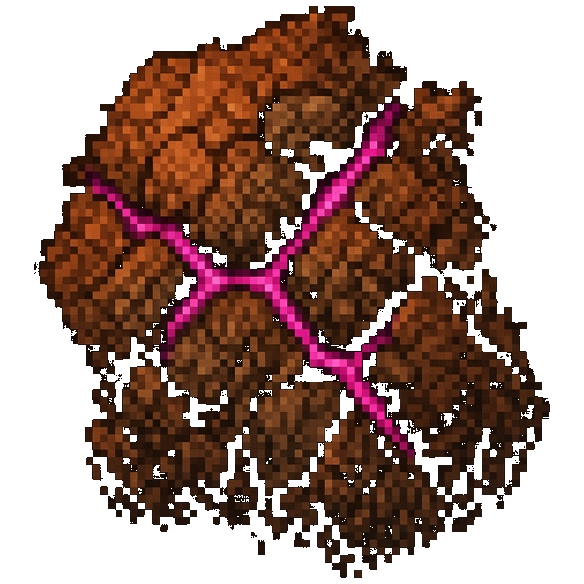
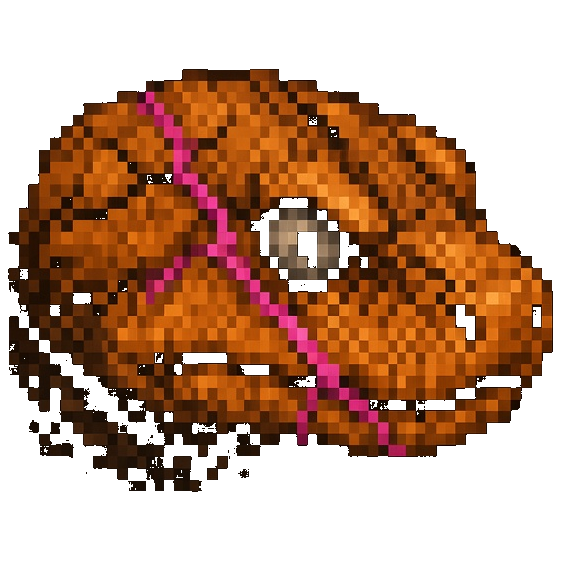
feat(arcade): Noodle directional sprites

diff --git a/components/arcade/NoodleGame.tsx b/components/arcade/NoodleGame.tsx
@@ -9,7 +9,12 @@ import {
   ROWS,
   SKIN_DIR,
   applyNoodleView,
+  bodySprite,
+  headSprite,
+  spriteFallback,
   stampSize,
+  tailPoint,
+  tailSprite,
   dirFromKey,
   dirFromSwipe,
   noodleView,
@@ -17,12 +22,29 @@ import {
   spawnNoodle,
   stepNoodle,
   segmentDir,
-  tailDir,
   type Noodle,
   type NoodleView,
 } from "@/lib/noodle";
 
-type SkinKey = "bg" | "head" | "body" | "tail" | "sat" | "dead";
+const ATLAS = [
+  "bg",
+  "sat",
+  "dead",
+  "head",
+  "body",
+  "tail",
+  "head-right",
+  "head-left",
+  "head-up",
+  "head-down",
+  "body-h",
+  "body-v",
+  "tail-left",
+  "tail-right",
+  "tail-up",
+  "tail-down",
+] as const;
+
 type Cropped = {
   img: HTMLImageElement;
   x: number;
@@ -30,7 +52,7 @@ type Cropped = {
   w: number;
   h: number;
 };
-type Skin = Record<SkinKey, Cropped | null>;
+type Skin = Record<string, Cropped | null>;
 
 export type NoodlePhase = "ghost" | "ready" | "play" | "dead";
 
@@ -47,14 +69,7 @@ export function NoodleGame({
 }) {
   const canvasRef = useRef<HTMLCanvasElement | null>(null);
   const gameRef = useRef<Noodle>(spawnNoodle(1, true));
-  const skinRef = useRef<Skin>({
-    bg: null,
-    head: null,
-    body: null,
-    tail: null,
-    sat: null,
-    dead: null,
-  });
+  const skinRef = useRef<Skin>({});
   const phaseRef = useRef(phase);
   const armedRef = useRef(armed);
   const diedRef = useRef(false);
@@ -82,14 +97,7 @@ export function NoodleGame({
   useEffect(() => {
     let cancelled = false;
     void (async () => {
-      const next = emptySkin();
-      await Promise.all(
-        (["bg", "head", "body", "tail", "sat", "dead"] as SkinKey[]).map(
-          async (key) => {
-            next[key] = await loadCropped(key);
-          },
-        ),
-      );
+      const next = await loadAtlas();
       if (!cancelled) skinRef.current = next;
     })();
     return () => {
@@ -216,10 +224,6 @@ export function NoodleGame({
   );
 }
 
-function emptySkin(): Skin {
-  return { bg: null, head: null, body: null, tail: null, sat: null, dead: null };
-}
-
 function loadSkinImage(name: string) {
   return new Promise<HTMLImageElement | null>((resolve) => {
     const img = new Image();
@@ -264,11 +268,28 @@ function cropImage(img: HTMLImageElement): Cropped {
   };
 }
 
-async function loadCropped(name: SkinKey) {
+async function loadCropped(name: string) {
   const img = await loadSkinImage(name);
   if (!img) return null;
   if (name === "bg") return { img, x: 0, y: 0, w: img.width, h: img.height };
   return cropImage(img);
+}
+
+async function loadAtlas(): Promise<Skin> {
+  const skin: Skin = {};
+  await Promise.all(
+    ATLAS.map(async (name) => {
+      const fallback = spriteFallback(name);
+      const own = await loadCropped(name);
+      skin[name] =
+        own ?? (fallback === name ? null : await loadCropped(fallback));
+    }),
+  );
+  return skin;
+}
+
+function skinPiece(skin: Skin, name: string) {
+  return skin[name] ?? skin[spriteFallback(name)] ?? null;
 }
 
 function paint(
@@ -300,16 +321,12 @@ function paint(
   const stamp = (
     piece: Cropped | null,
     cell: { x: number; y: number },
-    angle: number,
     kind: "head" | "body" | "tail" | "sat" | "dead",
   ) => {
     const aspect = piece && piece.h > 0 ? piece.w / piece.h : 1;
     const box = stampSize(view.cell, kind, aspect);
-    const cx = view.ox + cell.x * view.cell + view.cell / 2;
-    const cy = view.oy + cell.y * view.cell + view.cell / 2;
-    ctx.save();
-    ctx.translate(cx, cy);
-    ctx.rotate(angle);
+    const x = view.ox + cell.x * view.cell + (view.cell - box.w) / 2;
+    const y = view.oy + cell.y * view.cell + (view.cell - box.h) / 2;
     ctx.imageSmoothingEnabled = false;
     if (piece) {
       ctx.drawImage(
@@ -318,36 +335,32 @@ function paint(
         piece.y,
         piece.w,
         piece.h,
-        -box.w / 2,
-        -box.h / 2,
+        x,
+        y,
         box.w,
         box.h,
       );
     } else {
       ctx.fillStyle = FALLBACK;
-      ctx.fillRect(-box.w / 2, -box.h / 2, box.w, box.h);
+      ctx.fillRect(x, y, box.w, box.h);
     }
-    ctx.restore();
   };
 
-  if (game.sat.x >= 0) stamp(skin.sat, game.sat, 0, "sat");
+  if (game.sat.x >= 0) stamp(skin.sat ?? null, game.sat, "sat");
 
   const last = game.body.length - 1;
   if (last > 0) {
     const tail = game.body[last]!;
-    const dir = tailDir(game);
-    stamp(skin.tail, tail, Math.atan2(dir.y, dir.x), "tail");
+    stamp(skinPiece(skin, tailSprite(tailPoint(game))), tail, "tail");
   }
   for (let i = last - 1; i >= 1; i--) {
     const cell = game.body[i]!;
-    const dir = segmentDir(game, i);
-    stamp(skin.body, cell, Math.atan2(dir.y, dir.x), "body");
+    stamp(skinPiece(skin, bodySprite(segmentDir(game, i))), cell, "body");
   }
   const head = game.body[0];
   if (head) {
-    const angle = Math.atan2(game.dir.y, game.dir.x);
-    const deadHead = game.dead;
-    stamp(deadHead ? skin.dead : skin.head, head, angle, deadHead ? "dead" : "head");
+    if (game.dead) stamp(skin.dead ?? null, head, "dead");
+    else stamp(skinPiece(skin, headSprite(game.dir)), head, "head");
   }
 }
 

diff --git a/lib/noodle.test.ts b/lib/noodle.test.ts
@@ -16,9 +16,15 @@ import {
   noodleTapeText,
   queueDir,
   respawnNoodle,
+  segmentDir,
   noodleView,
   applyNoodleView,
   stampSize,
+  headSprite,
+  bodySprite,
+  tailSprite,
+  tailPoint,
+  spriteFallback,
   HEAD_SCALE,
   SAT_SCALE,
   SEGMENT_OVERLAP,
@@ -98,6 +104,40 @@ test("the last visible column is playable; one step past it is a wall", () => {
   assert.equal(game.dead, true);
   assert.equal(game.reason, "wall");
   assert.equal(game.body[0]?.x, view.cols - 1);
+});
+
+test("turning swaps head and tail faces; corners use the outbound body axis", () => {
+  assert.equal(headSprite(DIRS.right), "head-right");
+  assert.equal(headSprite(DIRS.left), "head-left");
+  assert.equal(headSprite(DIRS.up), "head-up");
+  assert.equal(headSprite(DIRS.down), "head-down");
+  assert.equal(bodySprite(DIRS.right), "body-h");
+  assert.equal(bodySprite(DIRS.up), "body-v");
+  assert.equal(tailSprite(DIRS.left), "tail-left");
+  assert.equal(tailSprite(DIRS.down), "tail-down");
+  assert.equal(spriteFallback("head-up"), "head");
+  assert.equal(spriteFallback("body-v"), "body");
+  assert.equal(spriteFallback("tail-right"), "tail");
+
+  const game = spawnNoodle(1);
+  game.body = [
+    { x: 4, y: 2 },
+    { x: 3, y: 2 },
+    { x: 2, y: 2 },
+    { x: 2, y: 3 },
+    { x: 2, y: 4 },
+  ];
+  game.dir = { ...DIRS.right };
+  assert.equal(bodySprite(segmentDir(game, 2)), "body-h");
+  assert.equal(tailSprite(tailPoint(game)), "tail-down");
+  game.dir = { ...DIRS.up };
+  game.body = [
+    { x: 2, y: 1 },
+    { x: 2, y: 2 },
+    { x: 2, y: 3 },
+  ];
+  assert.equal(headSprite(game.dir), "head-up");
+  assert.equal(tailSprite(tailPoint(game)), "tail-down");
 });
 
 test("stamps overlap into one animal and the head wins", () => {

diff --git a/lib/noodle.ts b/lib/noodle.ts
@@ -27,8 +27,48 @@ export function stampSize(
     kind === "head" || kind === "dead" ? HEAD_SCALE : 1 + SEGMENT_OVERLAP;
   const along = Math.max(1, Math.round(c * scale));
   const safe = aspect > 0 ? aspect : 1;
-  const cross = Math.max(1, Math.round(along / safe));
-  return { w: along, h: cross };
+  if (safe >= 1) {
+    return { w: along, h: Math.max(1, Math.round(along / safe)) };
+  }
+  return { w: Math.max(1, Math.round(along * safe)), h: along };
+}
+
+export function headSprite(dir: Dir) {
+  if (dir.x > 0) return "head-right";
+  if (dir.x < 0) return "head-left";
+  if (dir.y < 0) return "head-up";
+  return "head-down";
+}
+
+export function bodySprite(dir: Dir) {
+  return dir.y !== 0 && dir.x === 0 ? "body-v" : "body-h";
+}
+
+export function tailSprite(dir: Dir) {
+  if (dir.x < 0) return "tail-left";
+  if (dir.x > 0) return "tail-right";
+  if (dir.y < 0) return "tail-up";
+  return "tail-down";
+}
+
+export function spriteFallback(name: string) {
+  if (name.startsWith("head-")) return "head";
+  if (name.startsWith("body-")) return "body";
+  if (name.startsWith("tail-")) return "tail";
+  return name;
+}
+
+export function tailPoint(game: Noodle): Dir {
+  if (game.body.length < 2) {
+    return {
+      x: (game.dir.x === 0 ? 0 : -game.dir.x) as Dir["x"],
+      y: (game.dir.y === 0 ? 0 : -game.dir.y) as Dir["y"],
+    };
+  }
+  return toward(
+    game.body[game.body.length - 2]!,
+    game.body[game.body.length - 1]!,
+  );
 }
 
 export const DIRS = {
